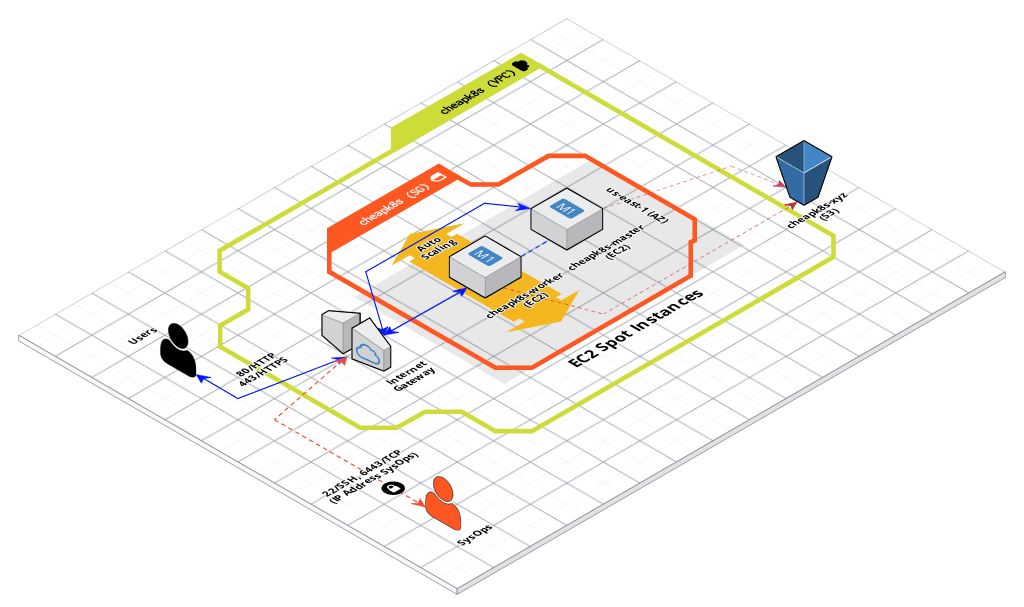
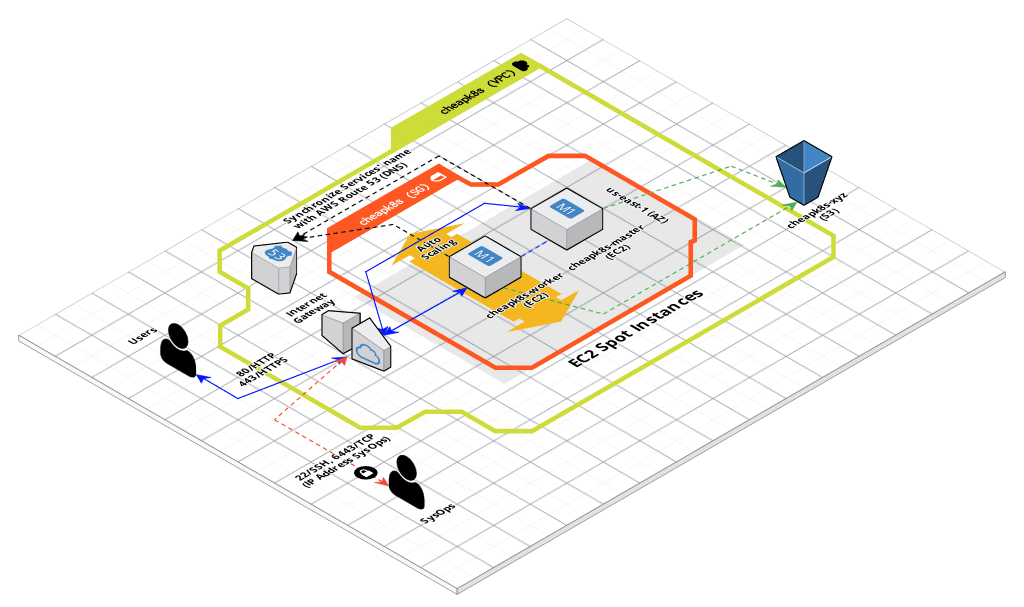
20200122 post updated in draft

diff --git a/_drafts/2020-01-22-building-your-own-affordable-cloud-k8s-to-host-a-service-mesh-data-plane-part2-dns-ingress.md b/_drafts/2020-01-22-building-your-own-affordable-cloud-k8s-to-host-a-service-mesh-data-plane-part2-dns-ingress.md
@@ -1,0 +1,308 @@
+---
+layout: post
+title:  "Building your own affordable Cloud (K8s) to host a Service Mesh - Part2 DNS to Ingress"
+date:   2020-01-22 10:00:00 +0100
+categories: ['cloud', 'apaas', 'service mesh'] 
+tags: ['aws', 'docker', 'kubernetes', 'data plane', 'dns', 'ingress']
+permalink: "/2020/01/22/building-your-own-affordable-cloud-k8s-to-host-a-service-mesh-part2-dns-ingress"
+comments: true
+---
+In order to get an affordable Kubernetes, every part we're going to use should be affordable too, and ones of the expensive and tricky things are the [AWS Elastic Load Balancing](https://aws.amazon.com/elasticloadbalancing){:target="_blank"} (ELB) and the [AWS Route 53](https://aws.amazon.com/route53){:target="_blank"} (DNS). Fortunately, Kubernetes SIGs are working to address this gap with the [Kubernetes ExternalDNS](https://github.com/kubernetes-sigs/external-dns){:target="_blank"}.
+
+**But what is the problem?**
+
+Apart of it is expensive, the problem is every time I deploy a `Service` in Kubernetes I have to update and add a new DNS entry in the Cloud Provider's DNS manually. Yes, of course, the process can be automated, but the idea is doing it during the provisioning time. In other words, every developer can publish theirs services adding the DNS name as annotation for that services can be called over Internet.
+Yes, [Kubernetes brings by default a DNS](https://github.com/kubernetes/dns){:target="_blank"} but this is an internal one and it is only to work resolving DNS names over the Kubernetes Network, not for internet facing services.
+
+**The Solution**
+
+The Kubernetes ExternalDNS will run a program in our affordable K8s wich it will synchronize exposed Kubernetes Services and Ingresses with the Cloud Provider's DNS Service, in this case with AWS Route 53. Below you can view a high level diagram and current status of my [Affordable Kubernetes Data Plane, I recommend look at first post about it](http://holisticsecurity.io/2020/01/16/building-your-own-affordable-cloud-k8s-to-host-a-service-mesh-data-plane){:target="_blank"}.
+
+[![Service Mesh hosted using AWS Spot Instances](/assets/img/20200122-service-mesh-01-affordableK8s-aws-arch.png "Service Mesh using AWS Spot Instances")](/assets/img/20200122-service-mesh-01-affordableK8s-aws-arch){:target="_blank"}
+
+<!-- more -->
+
+Then, let's do it.
+
+## Steps
+
+### 1. Create a Hosted Zone in AWS Route 53
+
+I'm going to register the subdomain `cloud.holisticsecurity.io` of existing Root domain name `holisticsecurity.io` into AWS Route 53. I'll follow the below AWS Route 53 explanation.
+
+* [Using Amazon Route 53 as the DNS Service for Subdomains Without Migrating the Parent Domain](https://docs.aws.amazon.com/Route53/latest/DeveloperGuide/creating-migrating.html){:target="_blank"}
+
+You can create subdomain records using either the Amazon Route 53 console or the Route 53 API. Since I have already `AWS CLI` configured, then let's use it.
+
+**1) Create a Hosted Zone in AWS 53 for the Subdomain**
+
+```sh
+# Create a DNS zone which will contain the managed DNS records.
+chilcano@inti:~/git-repos/affordable-k8s-tf$ aws route53 create-hosted-zone \
+  --name "cloud.holisticsecurity.io." \
+  --caller-reference "cloud-holosec-io-$(date +%s)" \
+  --hosted-zone-config "Comment='HostedZone for subdomain',PrivateZone=false"
+
+# Make a note of the ID of the hosted zone I just created, which will serve as the value for my-hostedzone-identifier.
+chilcano@inti:~/git-repos/affordable-k8s-tf$ aws route53 list-hosted-zones-by-name \
+  --output json \
+  --dns-name "cloud.holisticsecurity.io." | jq -r '.HostedZones[0].Id'
+
+/hostedzone/Z3O9PQMEP4619Y
+
+# Make a note of the nameservers that were assigned to my new zone.
+chilcano@inti:~/git-repos/affordable-k8s-tf$ aws route53 list-resource-record-sets \
+  --output json --hosted-zone-id "/hostedzone/Z3O9PQMEP4619Y" \
+  --query "ResourceRecordSets[?Type == 'NS']" | jq -r '.[0].ResourceRecords[].Value'
+
+ns-1954.awsdns-52.co.uk.
+ns-157.awsdns-19.com.
+ns-1053.awsdns-03.org.
+ns-789.awsdns-34.net.
+```
+
+**2) Update the DNS Service with Name Server Records for the Subdomain**
+
+After changes to Amazon Route 53 records have propagated, the next step is to update the DNS service for the parent domain by adding `NS` type records for the subdomain. This is known as delegating responsibility for the subdomain to Route 53. 
+
+I will need the above four nameserver that I got querying with `AWSCLI`. Note that those nameservers are for my subdomain, likely you got others.
+
+```sh
+ns-1954.awsdns-52.co.uk.
+ns-157.awsdns-19.com.
+ns-1053.awsdns-03.org.
+ns-789.awsdns-34.net.
+```
+Finally, for my subdomain `cloud.holisticsecurity.io`, you should have as shown below:
+
+```
+[...]
+cloud 1800 IN NS ns-1053.awsdns-03.org.
+cloud 1800 IN NS ns-157.awsdns-19.com.
+cloud 1800 IN NS ns-1954.awsdns-52.co.uk.
+cloud 1800 IN NS ns-789.awsdns-34.net.
+[...]
+```
+
+Ah, also you should wait some minutes or hours to propagate these changes. That depends on your DNS Service Provider.
+
+
+### 2. Provision of Kubernetes Cluster with ExternalDNS through Terraform
+
+
+If you have read the first post about how to create an affordable Kubernetes Data Plane, then you will know that I used Terraform to provision it. I'm using the [Really cheap Kubernetes cluster on AWS with kubeadm](https://github.com/cablespaghetti/kubeadm-aws){:target="_blank"} Guide's [Sam Weston](https://cablespaghetti.github.io){:target="_blank"} which already uses Kubernetes ExternalDNS, then I'm going to re-apply the Terraform scripts activating the installation of ExternalDNS.
+
+
+**1) Create a fresh affordable Kubernetes Cluster**
+
+>
+> If you want a cheap K8s Infrastructure on AWS, I recommend to clone this GitHub repo I've updated for you.
+>  
+> [https://github.com/chilcano/kubeadm-aws/tree/0.2.1-chilcano](https://github.com/chilcano/kubeadm-aws/tree/0.2.1-chilcano){:target="_blank"}
+>  
+
+Once cloned, first of all run `terraform destroy .....` to remove all AWS resources provisioned previously. TThat will avoid increasing your bill.
+After cleaning up, re aprovision a fresh Kubernetes Cluster.
+
+```sh
+chilcano@inti:~/git-repos/affordable-k8s-tf$ terraform plan \
+  -var cluster-name="cheapk8s" \
+  -var k8s-ssh-key="ssh-key-for-us-east-1" \
+  -var admin-cidr-blocks="83.50.9.220/32" \
+  -var region="us-east-1" \
+  -var kubernetes-version="1.14.3" \
+  -var external-dns-enabled="1" \
+  -var nginx-ingress-enabled="1" \
+  -var nginx-ingress-domain="ingress-nginx.cloud.holisticsecurity.io" 
+
+chilcano@inti:~/git-repos/affordable-k8s-tf$ terraform apply \
+  -var cluster-name="cheapk8s" \
+  -var k8s-ssh-key="ssh-key-for-us-east-1" \
+  -var admin-cidr-blocks="83.50.9.220/32" \
+  -var region="us-east-1" \
+  -var kubernetes-version="1.14.3" \
+  -var external-dns-enabled="1" \
+  -var nginx-ingress-enabled="1" \
+  -var nginx-ingress-domain="ingress-nginx.cloud.holisticsecurity.io" 
+```
+
+
+**2) Verify ExternalDNS has synchronized subdomain in AWS Route 53**
+
+Get the Hosted Zone ID of the hosted zone above I just created.
+```sh
+chilcano@inti:~/git-repos/affordable-k8s-tf$ aws route53 list-hosted-zones-by-name \
+  --output json \
+  --dns-name "cloud.holisticsecurity.io." | jq -r '.HostedZones[0].Id'
+
+/hostedzone/Z3O9PQMEP4619Y
+```
+
+Get all nameservers that were assigned initially and recently synchronized by ExternalDNS to my new zone.
+```sh
+chilcano@inti:~/git-repos/affordable-k8s-tf$ aws route53 list-resource-record-sets \
+  --output json --hosted-zone-id "/hostedzone/Z3O9PQMEP4619Y" \
+  --query "ResourceRecordSets[?Type == 'A']" | jq -r '.[0].ResourceRecords[].Value'
+
+
+chilcano@inti:~/git-repos/affordable-k8s-tf$ aws route53 list-resource-record-sets \
+  --output json --hosted-zone-id "/hostedzone/Z3O9PQMEP4619Y" \
+  --query "ResourceRecordSets[?Name == 'ingress-nginx.cloud.holisticsecurity.io.'].{Name:Name,Type:Type,ResourceRecords:ResourceRecords}" 
+
+[
+    {
+        "Name": "ingress-nginx.cloud.holisticsecurity.io.",
+        "Type": "A",
+        "ResourceRecords": [
+            {
+                "Value": "174.129.123.159"
+            },
+            {
+                "Value": "54.159.75.179"
+            }
+        ]
+    },
+    {
+        "Name": "ingress-nginx.cloud.holisticsecurity.io.",
+        "Type": "TXT",
+        "ResourceRecords": [
+            {
+                "Value": "\"heritage=external-dns,external-dns/owner=k8s,external-dns/resource=service/ingress-nginx/ingress-nginx\""
+            }
+        ]
+    }
+]
+```
+
+Or if you are of the old-school, you can ask to any of four AWS Route 53's DNS server if the subdomain has been created and updated.
+```sh
+chilcano@inti:~/git-repos/affordable-k8s-tf$ dig +short @ns-1954.awsdns-52.co.uk. ingress-nginx.cloud.holisticsecurity.io.
+174.129.123.159
+54.159.75.179
+
+chilcano@inti:~/git-repos/affordable-k8s-tf$ dig +short @ns-157.awsdns-19.com. ingress-nginx.cloud.holisticsecurity.io.
+174.129.123.159
+54.159.75.179
+
+chilcano@inti:~/git-repos/affordable-k8s-tf$ dig +short @ns-1053.awsdns-03.org. ingress-nginx.cloud.holisticsecurity.io.
+174.129.123.159
+54.159.75.179
+
+chilcano@inti:~/git-repos/affordable-k8s-tf$ dig +short @ns-789.awsdns-34.net. ingress-nginx.cloud.holisticsecurity.io.
+174.129.123.159
+54.159.75.179
+```
+
+
+**3) Verify ExternalDNS and NGINX Ingress work together**
+
+
+Since the `CheapK8s` only exposes RESTful services over `80` and `443` ports, then to verify I need to call the `Health Check` service of my [NGINX Ingress Controller](https://github.com/chilcano/kubeadm-aws/blob/0.2.1-chilcano/manifests/nginx-ingress-mandatory.yaml){:target="_blank"} deployed through Terraform in previous step.
+
+
+```sh
+chilcano@inti:~/git-repos/affordable-k8s-tf$ curl -X GET http://ingress-nginx.cloud.holisticsecurity.io/healthz -v
+Note: Unnecessary use of -X or --request, GET is already inferred.
+*   Trying 174.129.123.159:80...
+* TCP_NODELAY set
+* Connected to ingress-nginx.cloud.holisticsecurity.io (174.129.123.159) port 80 (#0)
+> GET /healthz HTTP/1.1
+> Host: ingress-nginx.cloud.holisticsecurity.io
+> User-Agent: curl/7.65.3
+> Accept: */*
+> 
+* Mark bundle as not supporting multiuse
+< HTTP/1.1 200 OK
+< Server: nginx/1.15.5
+< Date: Tue, 21 Jan 2020 21:24:45 GMT
+< Content-Type: text/html
+< Content-Length: 0
+< Connection: keep-alive
+< 
+* Connection #0 to host ingress-nginx.cloud.holisticsecurity.io left intact
+```
+
+
+**4) Verify ExternalDNS and NGINX Ingress work together (Ingress resource example)**
+
+xxxx
+
+**5) Verify ExternalDNS and NGINX Ingress work together (Service example)**
+
+
+
+
+
+
+
+
+
+
+**1. Deploy microservices**
+
+You can clone the Hello Microservices available in the [Service Mesh Workshop](https://github.com/chilcano/service-mesh-workshop){:target="_blank"} GitHub repo I published many months ago.
+
+```sh
+$ git clone https://github.com/chilcano/service-mesh-workshop
+$ cd $PWD/service-mesh-workshop/labs
+$ kubectl apply -f 01-delivering-on-k8s/hello-app.yaml 
+```
+
+Or just deploy the [`hello-app.yaml` Kubernetes Deployment file](https://raw.githubusercontent.com/chilcano/service-mesh-workshop/master/labs/01-delivering-on-k8s/hello-app.yaml){:target="_blank"}.
+
+```sh
+$ kubectl apply -f https://raw.githubusercontent.com/chilcano/service-mesh-workshop/master/labs/01-delivering-on-k8s/hello-app.yaml
+```
+
+**2. Check microservices deployment**
+
+ Once completed the deployment, check if the microservices were deployed successfully.
+
+```sh
+$ kubectl get pods,svc -n hello -o wide
+NAME                            READY   STATUS    RESTARTS   AGE   IP           NODE                           NOMINATED NODE   READINESS GATES
+pod/hello-v1-5cb886df9d-nvb9j   1/1     Running   0          21s   10.244.1.4   ip-10-0-100-154.ec2.internal   <none>           <none>
+pod/hello-v2-6c7fbbb654-hdqfr   1/1     Running   0          21s   10.244.1.5   ip-10-0-100-154.ec2.internal   <none>           <none>
+
+NAME                    TYPE           CLUSTER-IP       EXTERNAL-IP   PORT(S)          AGE   SELECTOR
+service/hello-svc-cip   ClusterIP      10.104.114.129   <none>        5010/TCP         20s   app=hello
+service/hello-svc-lb    LoadBalancer   10.98.9.14       <pending>     5020:31653/TCP   18s   app=hello
+service/hello-svc-np    NodePort       10.109.14.191    <none>        5030:30796/TCP   17s   app=hello
+```
+
+### Call the Hello Microservices
+
+
+**1. Calling Hello Microservice through ClusterIP SVC**
+
+```sh
+$ kubectl get svc/hello-svc-cip -o jsonpath='{.spec.clusterIP}'
+$ kubectl get svc/hello-svc-cip -o jsonpath='{.spec.ports[0].port}'
+
+$ export HELLO_SVC_CIP=$(kubectl get svc/hello-svc-cip -n hello -o jsonpath='{.spec.clusterIP}'):$(kubectl get svc/hello-svc-cip -n hello -o jsonpath='{.spec.ports[0].port}')
+$ curl http://${HELLO_SVC_CIP}/hello
+```
+
+**2. Calling Hello Microservice through LoadBalancer SVC**
+
+```sh
+$ export HELLO_SVC_LB=$(ssh ubuntu@$(terraform output master_dns) -i ~/Downloads/ssh-key-for-us-east-1.pem -- kubectl get svc hello-svc-lb -n hello -o jsonpath='{.spec.ports[0].nodePort}')
+$ curl -s http://$(terraform output master_dns):${HELLO_SVC_LB}/hello
+```
+
+**3. Calling Hello Microservice through NodePort SVC**
+
+```sh
+$ export HELLO_SVC_NP=$(ssh ubuntu@$(terraform output master_dns) -i ~/Downloads/ssh-key-for-us-east-1.pem -- kubectl get svc hello-svc-np -n hello -o jsonpath='{.spec.ports[0].nodePort}')
+$ curl -s http://$(terraform output master_dns):${HELLO_SVC_NP}/hello
+```
+
+
+## References
+
+1. [Kubernetes SIGs ExternalDNS's github repo](https://github.com/kubernetes-sigs/external-dns){:target="_blank"}
+2. [The missing piece - Kubernetes ExternalDNS by Lachlan Evenson, 9 Aug 2017](https://www.youtube.com/watch?v=9HQ2XgL9YVI){:target="_blank"}
+3. [The NGINX Ingress Controller](https://github.com/kubernetes/ingress-nginx){:target="_blank"}
+4. [Kubernetes concepts - Service](https://kubernetes.io/docs/concepts/services-networking/service/){:target="_blank"}
+5. [Kubernetes concepts - Ingress](https://kubernetes.io/docs/concepts/services-networking/ingress/){:target="_blank"}
+
